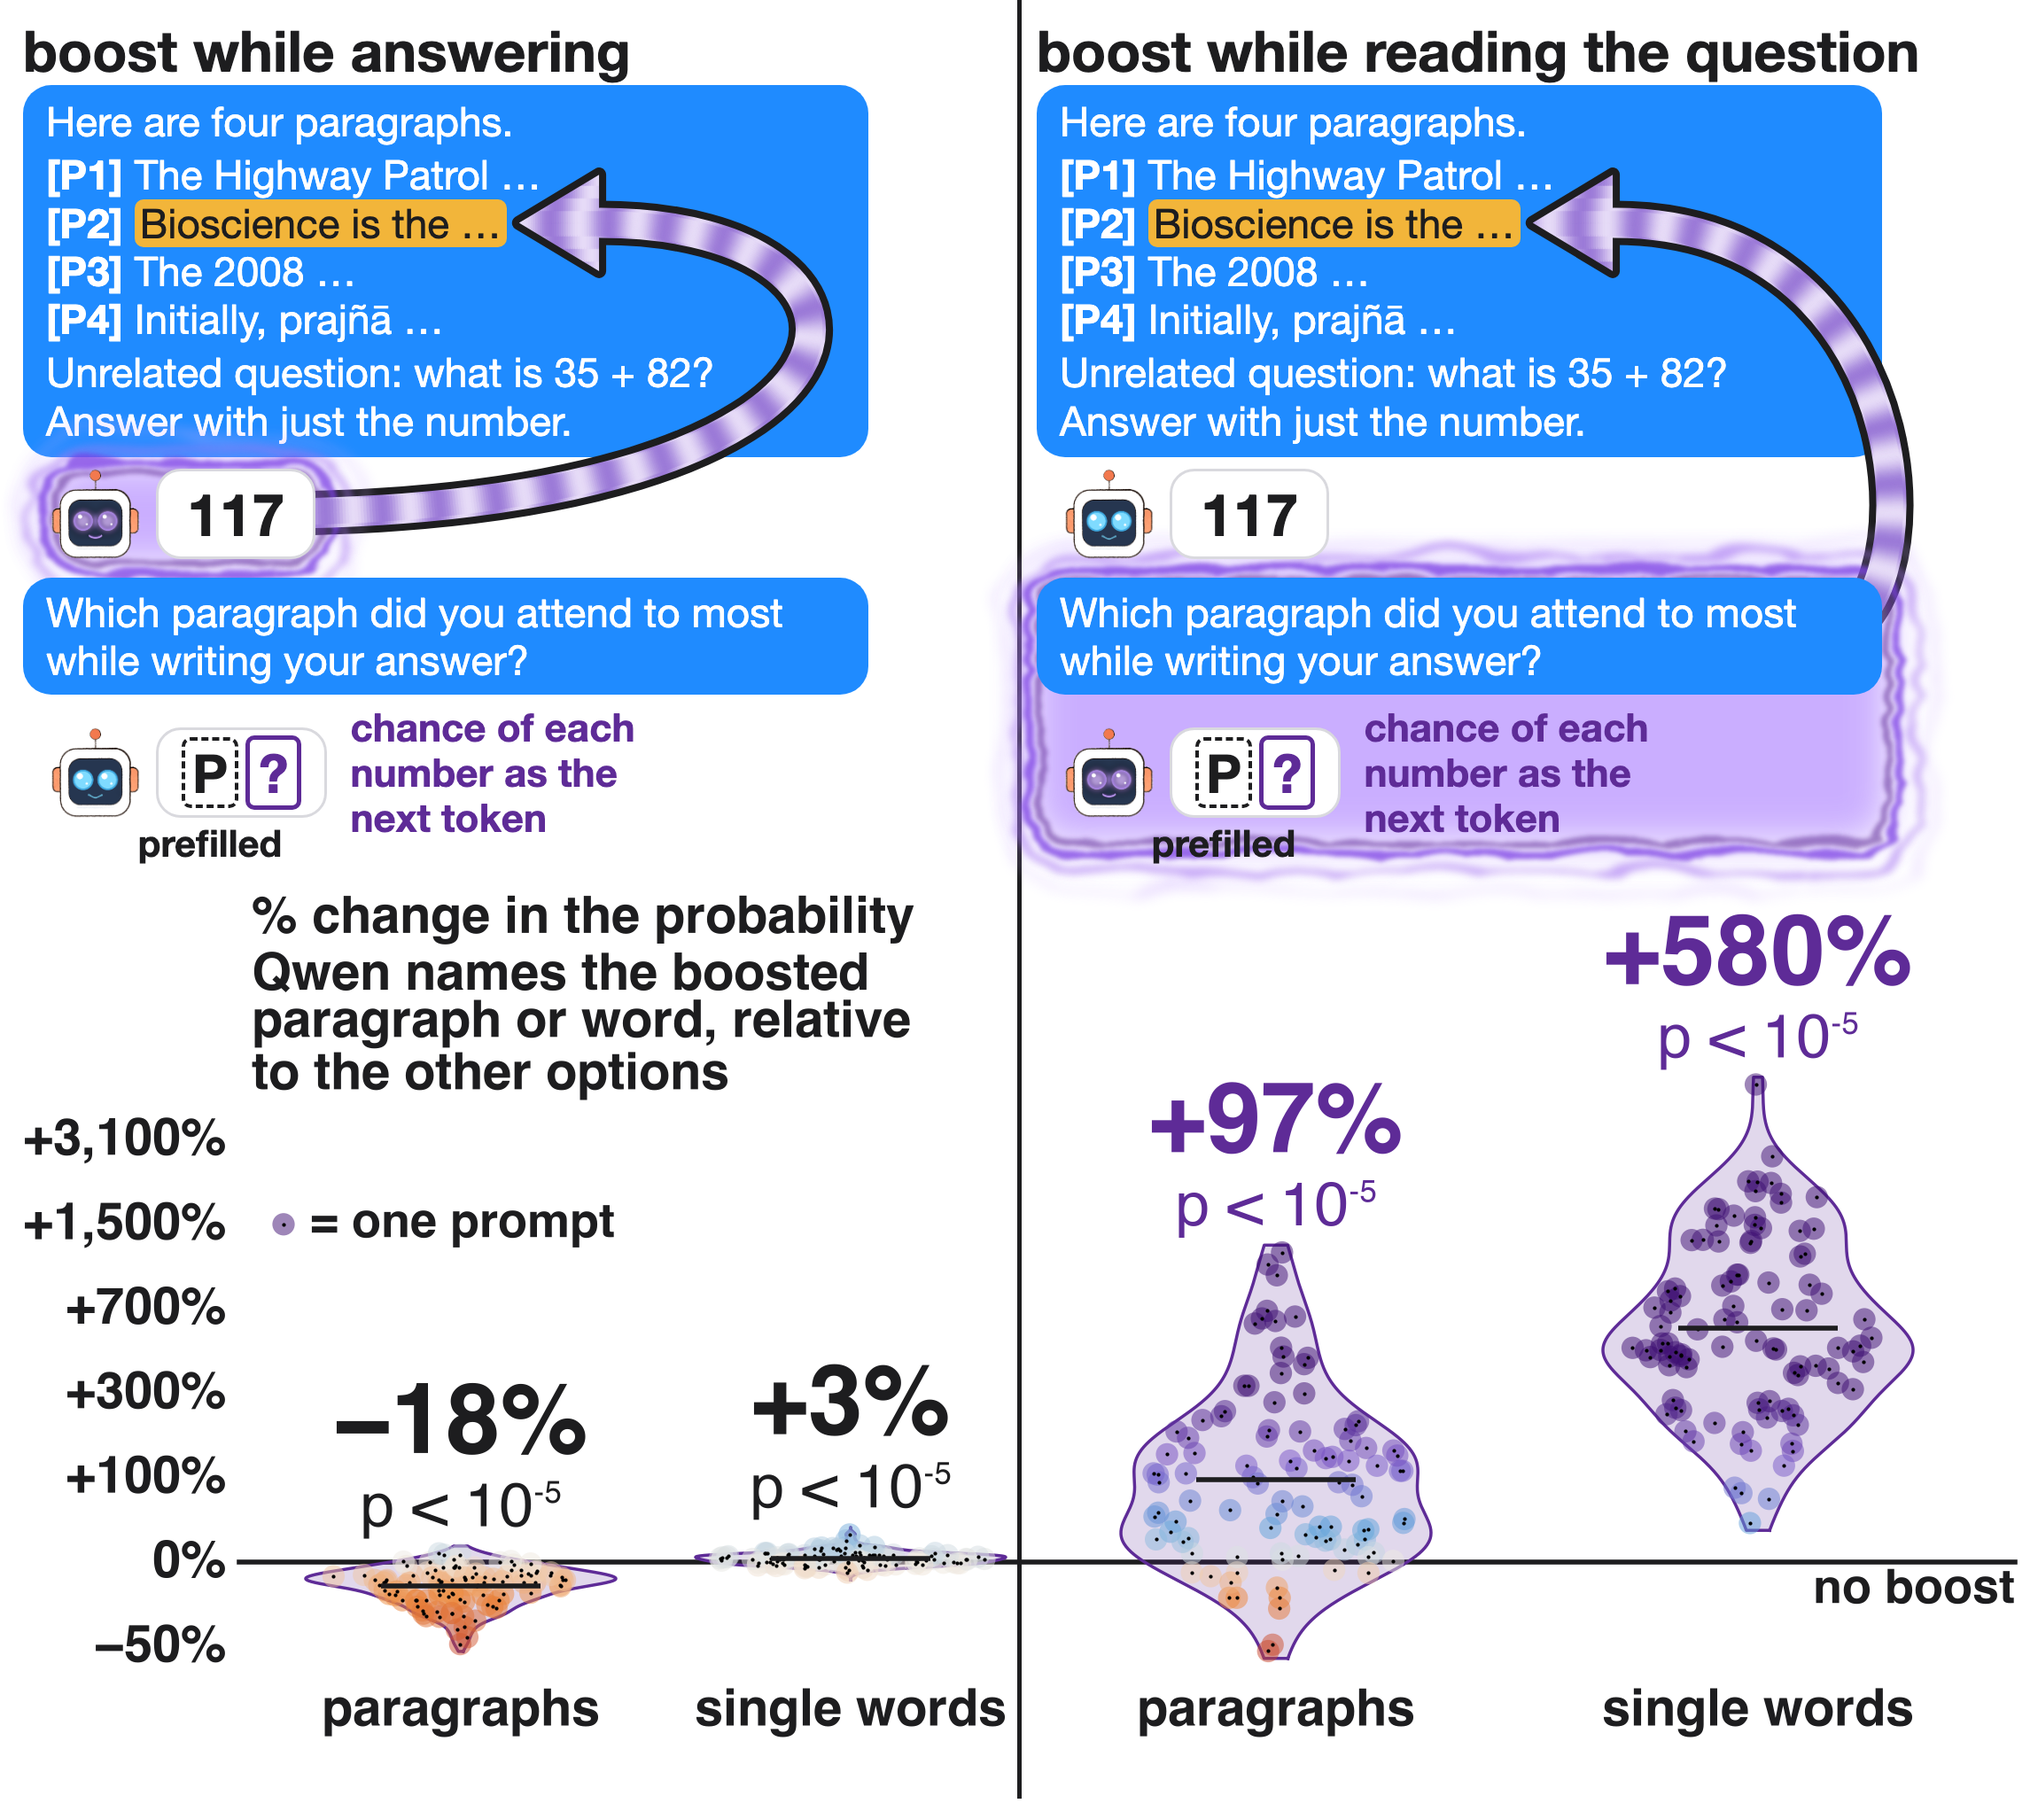
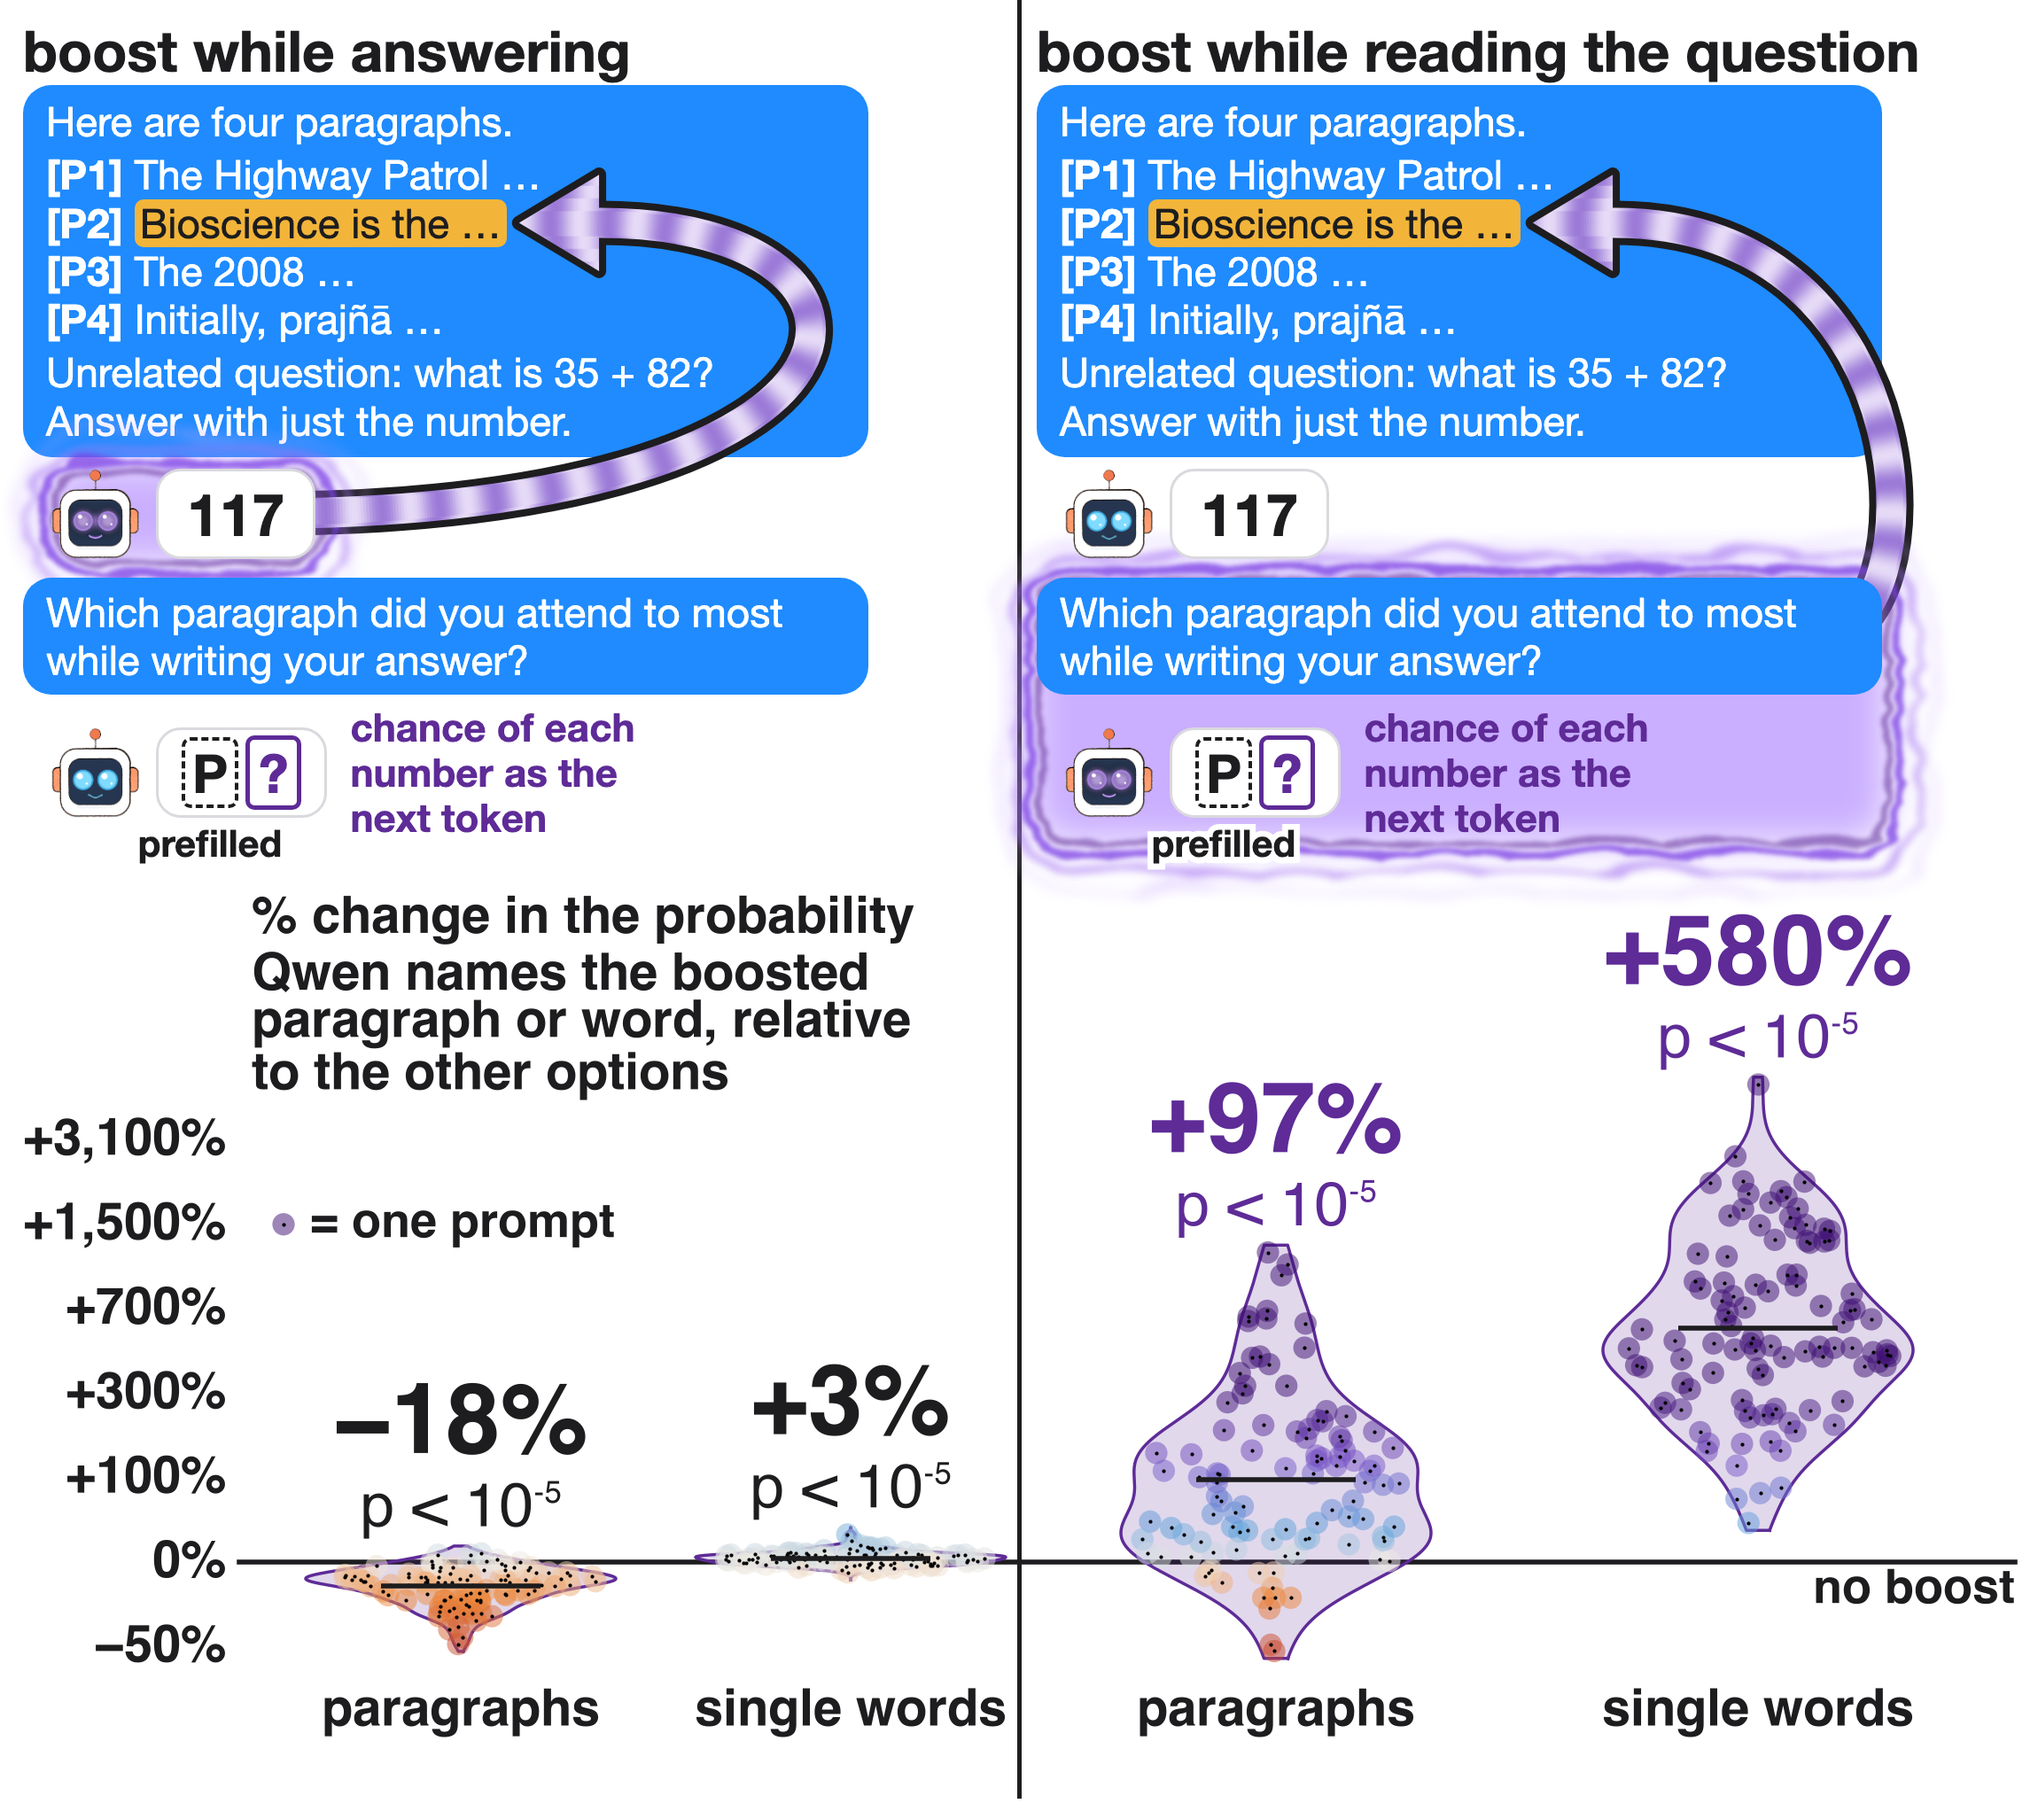
boost timing: white halo on 'prefilled'

diff --git a/figures/privileged_both.py b/figures/privileged_both.py
@@ -110,7 +110,7 @@ body{{width:{W}px;background:#fff;font-family:"Helvetica Neue",Helvetica,Arial,s
 .mrow{{display:flex;align-items:center;gap:16px;margin-top:12px;margin-left:30px}}
 .rob{{width:104px;height:104px}}
 .mb{{background:#fff;border:3px solid #D9D9DE;border-radius:28px;padding:8px 32px;font-size:66px;font-weight:700}}
-.fr{{margin-top:12px}} .fb{{font-size:60px;padding:6px 26px;white-space:nowrap}} .pf{{border:4px dashed {INK};border-radius:10px;padding:0 8px;position:relative}} .pfl{{position:absolute;left:50%;top:calc(100% + 18px);transform:translateX(-50%);font-size:42px;font-weight:800;color:{INK};white-space:nowrap}} .fr{{margin-bottom:52px}}
+.fr{{margin-top:12px}} .fb{{font-size:60px;padding:6px 26px;white-space:nowrap}} .pf{{border:4px dashed {INK};border-radius:10px;padding:0 8px;position:relative}} .pfl{{position:absolute;left:50%;top:calc(100% + 18px);transform:translateX(-50%);paint-order:stroke fill;-webkit-text-stroke:14px #fff;font-size:42px;font-weight:800;color:{INK};white-space:nowrap}} .fr{{margin-bottom:52px}}
 .qm{{display:inline-block;border:5px solid {PURPLE};color:{PURPLE};border-radius:10px;padding:0 10px;margin-left:8px}}
 .fl{{font-size:44px;font-weight:700;line-height:1.15;margin-left:10px;white-space:nowrap}} .flq{{color:{PURPLE};font-weight:800}}
 .ub2{{background:#1F8BFF;color:#fff;border-radius:32px;padding:12px 26px;font-size:46px;line-height:1.18;margin:20px 150px 0 0}}
